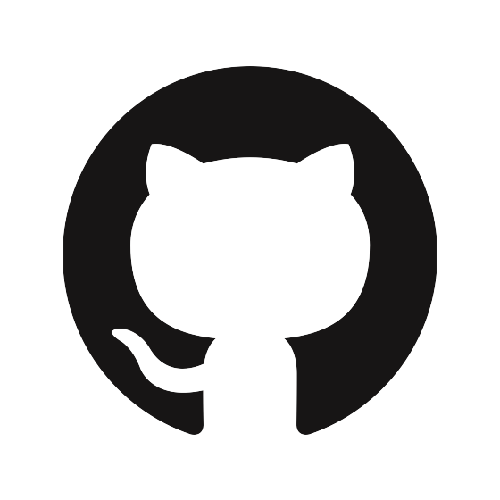
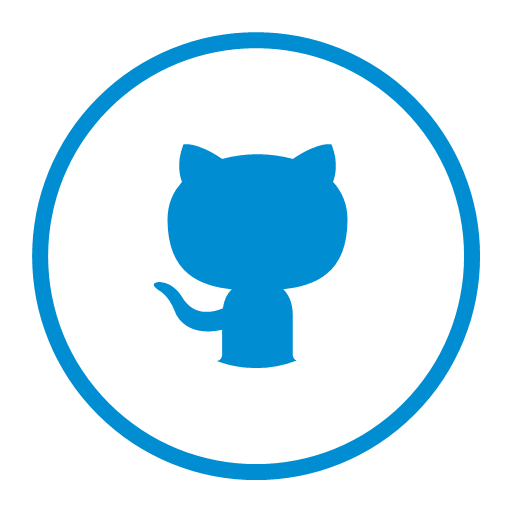
Modif footer

diff --git a/CSS/style.css b/CSS/style.css
@@ -89,8 +89,8 @@ a{
 }
 
 .logo img{
-    height: 35px;
-    width: 35px;
+    height: 65px;
+    width: 65px;
 }
 /*-----HEADER-----*/
 .header{
@@ -258,19 +258,13 @@ ul{
     color: #ffffff;
     padding-left: 8px;
 }
-.footer-col .social-links a{
+.footer-col .social-links img{
     display: inline-block;
     height: 40px;
     width: 40px;
-    background-color: rgba(255,255,255,0.2);
     margin:0 10px 10px 0;
     text-align: center;
     line-height: 40px;
-    border-radius: 50%;
     color: #ffffff;
     transition: all 0.5s ease;
-}
-.footer-col .social-links a:hover{
-    color: #24262b;
-    background-color: #ffffff;
 }

diff --git a/pages/footer.php b/pages/footer.php
@@ -32,8 +32,8 @@
             <div class="footer-col">
                 <h4>Suivez-moi !</h4>
                 <div class="social-links">
-                    <a href="#"><i class="fab fa-instagram"></i></a>
-                    <a href="#"><i class="fab fa-linkedin-in"></i></a>
+                    <a href="https://github.com/Theoode"><img src="../medias/github.png"></a>
+                    <a href="https://www.linkedin.com/in/th%C3%A9o-quennehen-41939423a/"> <img src="../medias/linkedin.png"></a>
                 </div>
             </div>
         </div>
